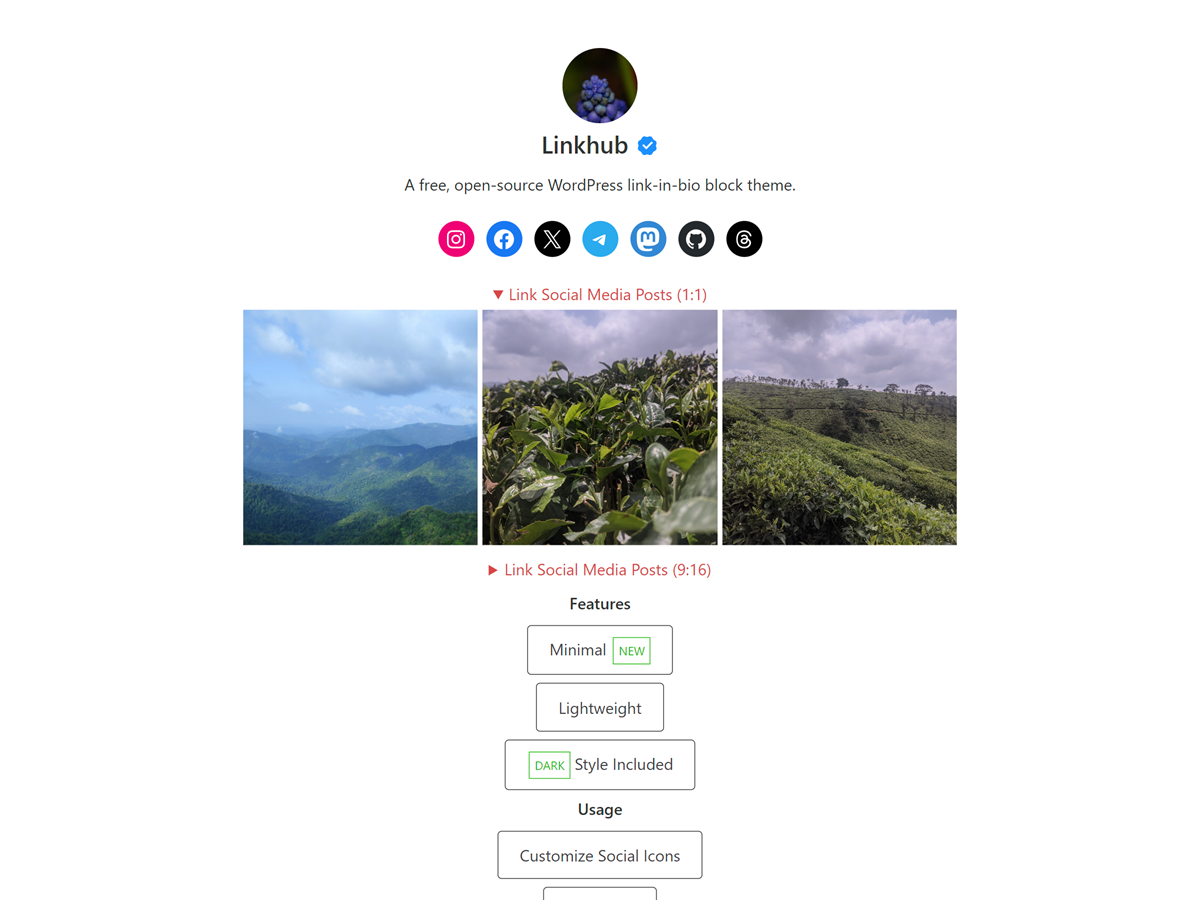
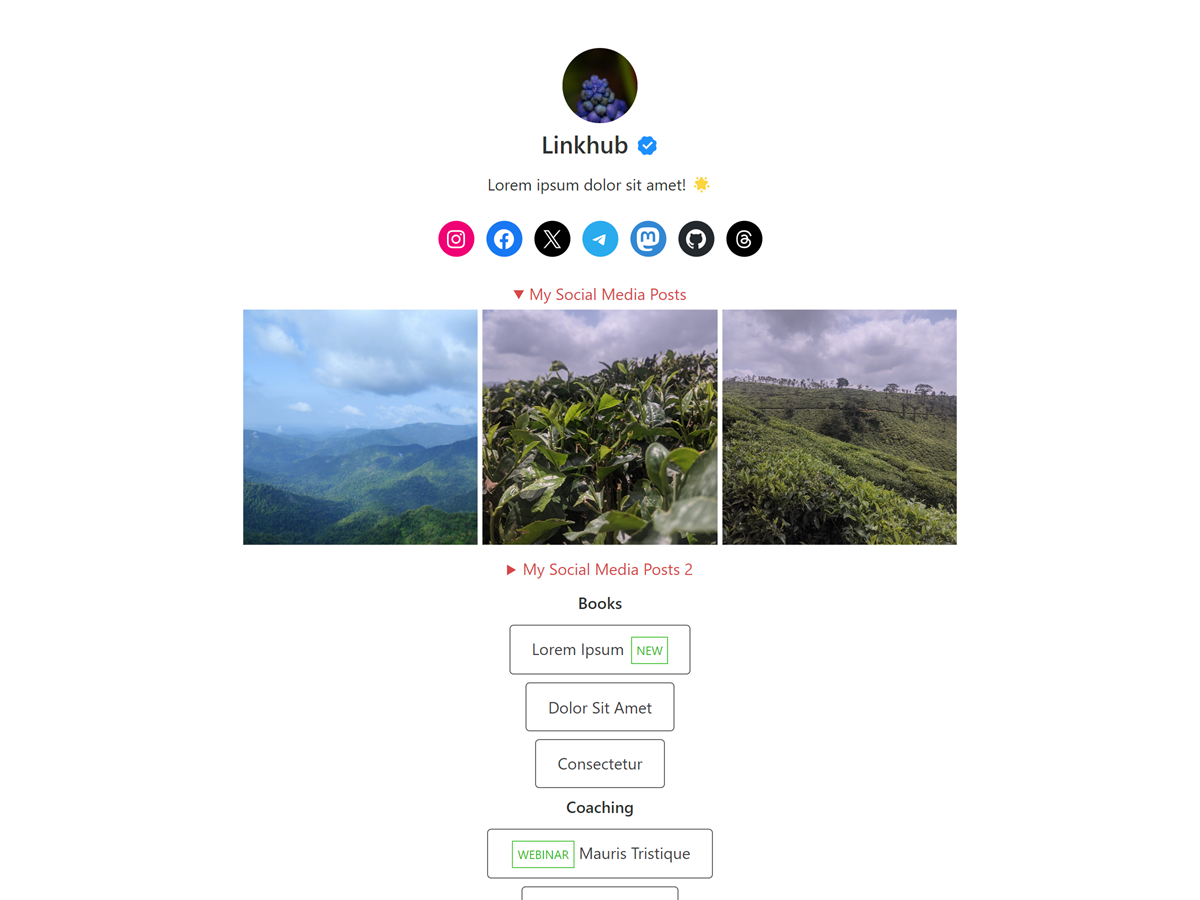
0.1.1

diff --git a/templates/404.html b/templates/404.html
@@ -14,7 +14,7 @@
         <!-- wp:button {"textAlign":"center","textColor":"grey","style":{"border":{"radius":"4px","width":"1px"},"elements":{"link":{"color":{"text":"var:preset|color|grey"}}}},"borderColor":"grey","className":"is-style-outline"} -->
         <div class="wp-block-button is-style-outline"><a
                 class="wp-block-button__link has-grey-color has-text-color has-link-color has-border-color has-grey-border-color has-text-align-center wp-element-button"
-                href="http://example.com" style="border-width:1px;border-radius:4px">Go Home</a></div>
+                href="#" style="border-width:1px;border-radius:4px">Go Home</a></div>
         <!-- /wp:button -->
     </div>
     <!-- /wp:buttons -->

diff --git a/style.css b/style.css
@@ -4,8 +4,8 @@ Theme URI: https://github.com/digitalmalayali/linkhub-wordpress-theme
 Author: Digital Malayali
 Author URI: https://links.digitalmalayali.in
 Description: A minimal and super-lightweight free WordPress block theme to create a link-in-bio website like Linktree or Later.
-Tags: portfolio, one-column
-Version: 0.1.0
+Tags: portfolio, one-column, block-styles, block-patterns, full-site-editing
+Version: 0.1.1
 Requires at least: 6.4
 Tested up to: 6.5
 Requires PHP: 7.0

diff --git a/patterns/buttons.php b/patterns/buttons.php
@@ -13,15 +13,15 @@
 
 <!-- wp:buttons {"layout":{"type":"flex","justifyContent":"center","orientation":"vertical"}} -->
 <div class="wp-block-buttons"><!-- wp:button {"textAlign":"center","textColor":"grey","style":{"border":{"radius":"4px","width":"1px"},"elements":{"link":{"color":{"text":"var:preset|color|grey"}}}},"borderColor":"grey","className":"is-style-outline"} -->
-    <div class="wp-block-button is-style-outline"><a class="wp-block-button__link has-grey-color has-text-color has-link-color has-border-color has-grey-border-color has-text-align-center wp-element-button" href="http://example.com" style="border-width:1px;border-radius:4px" target="_blank" rel="noreferrer noopener"><?php echo __('Minimal <mark style="background-color:rgba(0, 0, 0, 0)" class="has-inline-color has-success-color">New</mark>', 'linkhub'); ?></a></div>
+    <div class="wp-block-button is-style-outline"><a class="wp-block-button__link has-grey-color has-text-color has-link-color has-border-color has-grey-border-color has-text-align-center wp-element-button" href="#" style="border-width:1px;border-radius:4px" target="_blank" rel="noreferrer noopener"><?php echo __('Minimal <mark style="background-color:rgba(0, 0, 0, 0)" class="has-inline-color has-success-color">New</mark>', 'linkhub'); ?></a></div>
     <!-- /wp:button -->
 
     <!-- wp:button {"textAlign":"center","textColor":"grey","style":{"border":{"radius":"4px","width":"1px"},"elements":{"link":{"color":{"text":"var:preset|color|grey"}}}},"className":"is-style-outline"} -->
-    <div class="wp-block-button is-style-outline"><a class="wp-block-button__link has-grey-color has-text-color has-link-color has-text-align-center wp-element-button" href="http://example.com" style="border-width:1px;border-radius:4px" target="_blank" rel="noreferrer noopener"><?php echo __('Lightweight', 'linkhub'); ?></a></div>
+    <div class="wp-block-button is-style-outline"><a class="wp-block-button__link has-grey-color has-text-color has-link-color has-text-align-center wp-element-button" href="#" style="border-width:1px;border-radius:4px" target="_blank" rel="noreferrer noopener"><?php echo __('Lightweight', 'linkhub'); ?></a></div>
     <!-- /wp:button -->
 
     <!-- wp:button {"textColor":"grey","style":{"border":{"radius":"4px","width":"1px"},"elements":{"link":{"color":{"text":"var:preset|color|grey"}}}},"className":"is-style-outline"} -->
-    <div class="wp-block-button is-style-outline"><a class="wp-block-button__link has-grey-color has-text-color has-link-color wp-element-button" href="http://example.com" style="border-width:1px;border-radius:4px" target="_blank" rel="noreferrer noopener"><?php echo __('<mark style="background-color:rgba(0, 0, 0, 0)" class="has-inline-color has-success-color">Dark</mark> Style Included', 'linkhub'); ?></a></div>
+    <div class="wp-block-button is-style-outline"><a class="wp-block-button__link has-grey-color has-text-color has-link-color wp-element-button" href="#" style="border-width:1px;border-radius:4px" target="_blank" rel="noreferrer noopener"><?php echo __('<mark style="background-color:rgba(0, 0, 0, 0)" class="has-inline-color has-success-color">Dark</mark> Style Included', 'linkhub'); ?></a></div>
     <!-- /wp:button -->
 </div>
 <!-- /wp:buttons -->
@@ -32,11 +32,11 @@
 
 <!-- wp:buttons {"layout":{"type":"flex","justifyContent":"center","orientation":"vertical"}} -->
 <div class="wp-block-buttons"><!-- wp:button {"textAlign":"center","textColor":"grey","style":{"border":{"radius":"4px","width":"1px"},"elements":{"link":{"color":{"text":"var:preset|color|grey"}}}},"borderColor":"grey","className":"is-style-outline"} -->
-    <div class="wp-block-button is-style-outline"><a class="wp-block-button__link has-grey-color has-text-color has-link-color has-border-color has-grey-border-color has-text-align-center wp-element-button" href="http://example.com" style="border-width:1px;border-radius:4px" target="_blank" rel="noreferrer noopener"><?php echo __('Customize Social Icons', 'linkhub'); ?></a></div>
+    <div class="wp-block-button is-style-outline"><a class="wp-block-button__link has-grey-color has-text-color has-link-color has-border-color has-grey-border-color has-text-align-center wp-element-button" href="#" style="border-width:1px;border-radius:4px" target="_blank" rel="noreferrer noopener"><?php echo __('Customize Social Icons', 'linkhub'); ?></a></div>
     <!-- /wp:button -->
 
     <!-- wp:button {"textColor":"grey","style":{"border":{"radius":"4px","width":"1px"},"elements":{"link":{"color":{"text":"var:preset|color|grey"}}}},"className":"is-style-outline"} -->
-    <div class="wp-block-button is-style-outline"><a class="wp-block-button__link has-grey-color has-text-color has-link-color wp-element-button" href="http://example.com" style="border-width:1px;border-radius:4px" target="_blank" rel="noreferrer noopener"><?php echo __('Add Links', 'linkhub'); ?></a></div>
+    <div class="wp-block-button is-style-outline"><a class="wp-block-button__link has-grey-color has-text-color has-link-color wp-element-button" href="#" style="border-width:1px;border-radius:4px" target="_blank" rel="noreferrer noopener"><?php echo __('Add Links', 'linkhub'); ?></a></div>
     <!-- /wp:button -->
 </div>
 <!-- /wp:buttons -->

diff --git a/functions.php b/functions.php
@@ -57,11 +57,12 @@ function linkhub_register_block_styles()
 
 // Register pattern category
 
-add_action( 'init', 'linkhub_register_pattern_categories' );
+add_action('init', 'linkhub_register_pattern_categories');
 
-function linkhub_register_pattern_categories() {
-	register_block_pattern_category( 'linkhub/patterns', array( 
-		'label'       => __( 'Linkhub Patterns', 'linkhub' ),
-		'description' => __( 'Custom patterns for Linkhub theme.', 'linkhub' )
-	) );
+function linkhub_register_pattern_categories()
+{
+	register_block_pattern_category('linkhub/patterns', array(
+		'label'       => __('Linkhub Patterns', 'linkhub'),
+		'description' => __('Custom patterns for Linkhub theme.', 'linkhub')
+	));
 }

diff --git a/patterns/footer.php b/patterns/footer.php
@@ -1,10 +1,9 @@
 <?php
 
 /**
- * Title: footer
+ * Title: Footer
  * Slug: linkhub/footer
- * Categories: hidden
- * Inserter: no
+ * Categories: linkhub/patterns, footers
  */
 ?>
 

diff --git a/README.md b/README.md
@@ -1,7 +1,8 @@
 # Linkhub WordPress Theme
 
-![Static Badge](https://img.shields.io/badge/HTML-Template-blue?logo=html5&logoColor=white&labelColor=E34F26&link=https%3A%2F%2Fgithub.com%2Fdigitalmalayali%2Flinkhub)
-![Static Badge](https://img.shields.io/badge/Jekyll-Theme-white?logo=jekyll&logoColor=white&labelColor=CC0000&color=grey&link=https%3A%2F%2Fgithub.com%2Fdigitalmalayali%2Flinkhub-jekyll-theme%2F)
+[![GitHub Downloads (all assets, all releases)](https://img.shields.io/github/downloads/digitalmalayali/linkhub-wordpress-theme/total?logo=github&labelColor=%23181717&color=%232f81f7)](https://github.com/digitalmalayali/linkhub-wordpress-theme/releases)
+[![Static Badge](https://img.shields.io/badge/HTML-Template-blue?logo=html5&logoColor=white&labelColor=E34F26)](https://github.com/digitalmalayali/linkhub)
+[![Static Badge](https://img.shields.io/badge/Jekyll-Theme-white?logo=jekyll&logoColor=white&labelColor=CC0000&color=grey)](https://github.com/digitalmalayali/linkhub-jekyll-theme/)
 
 
 ## Description
